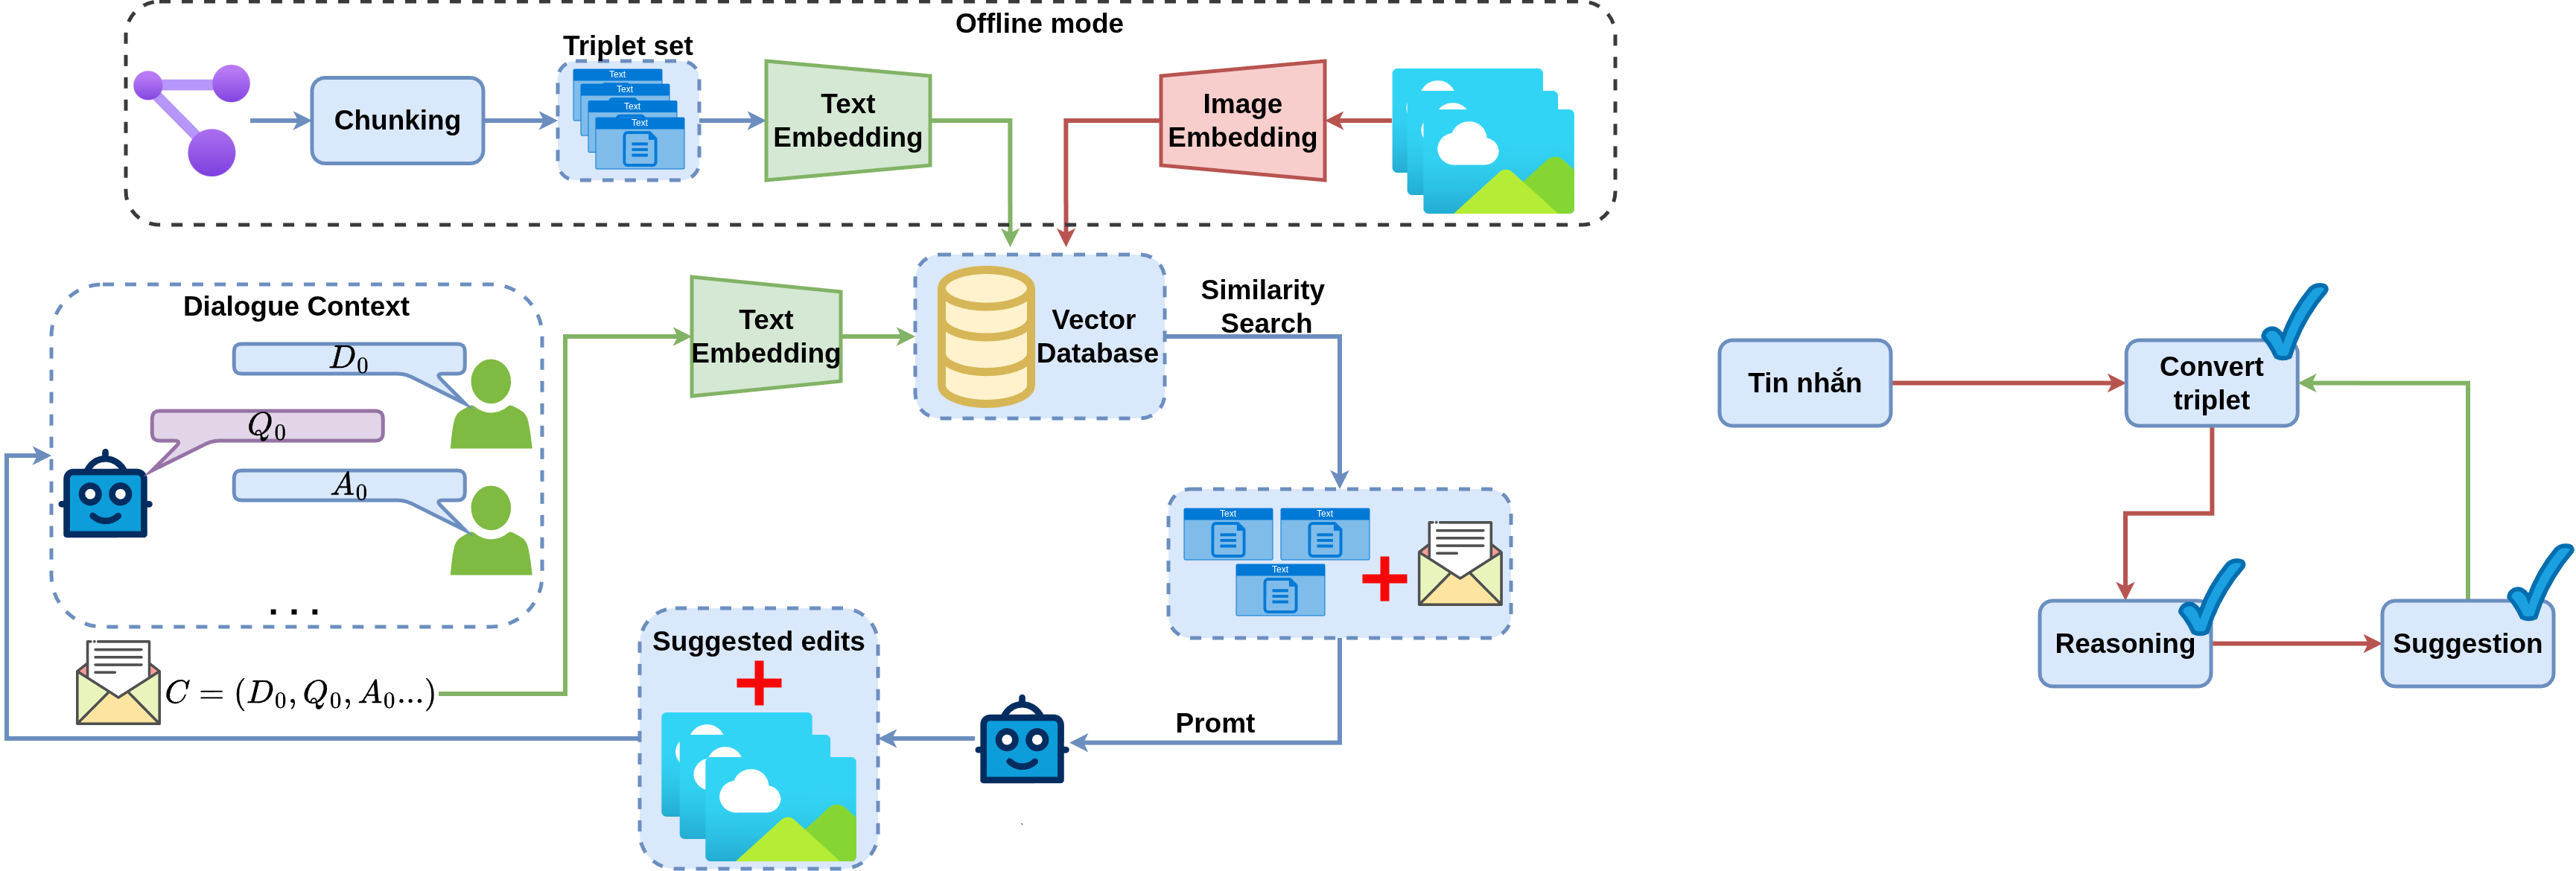
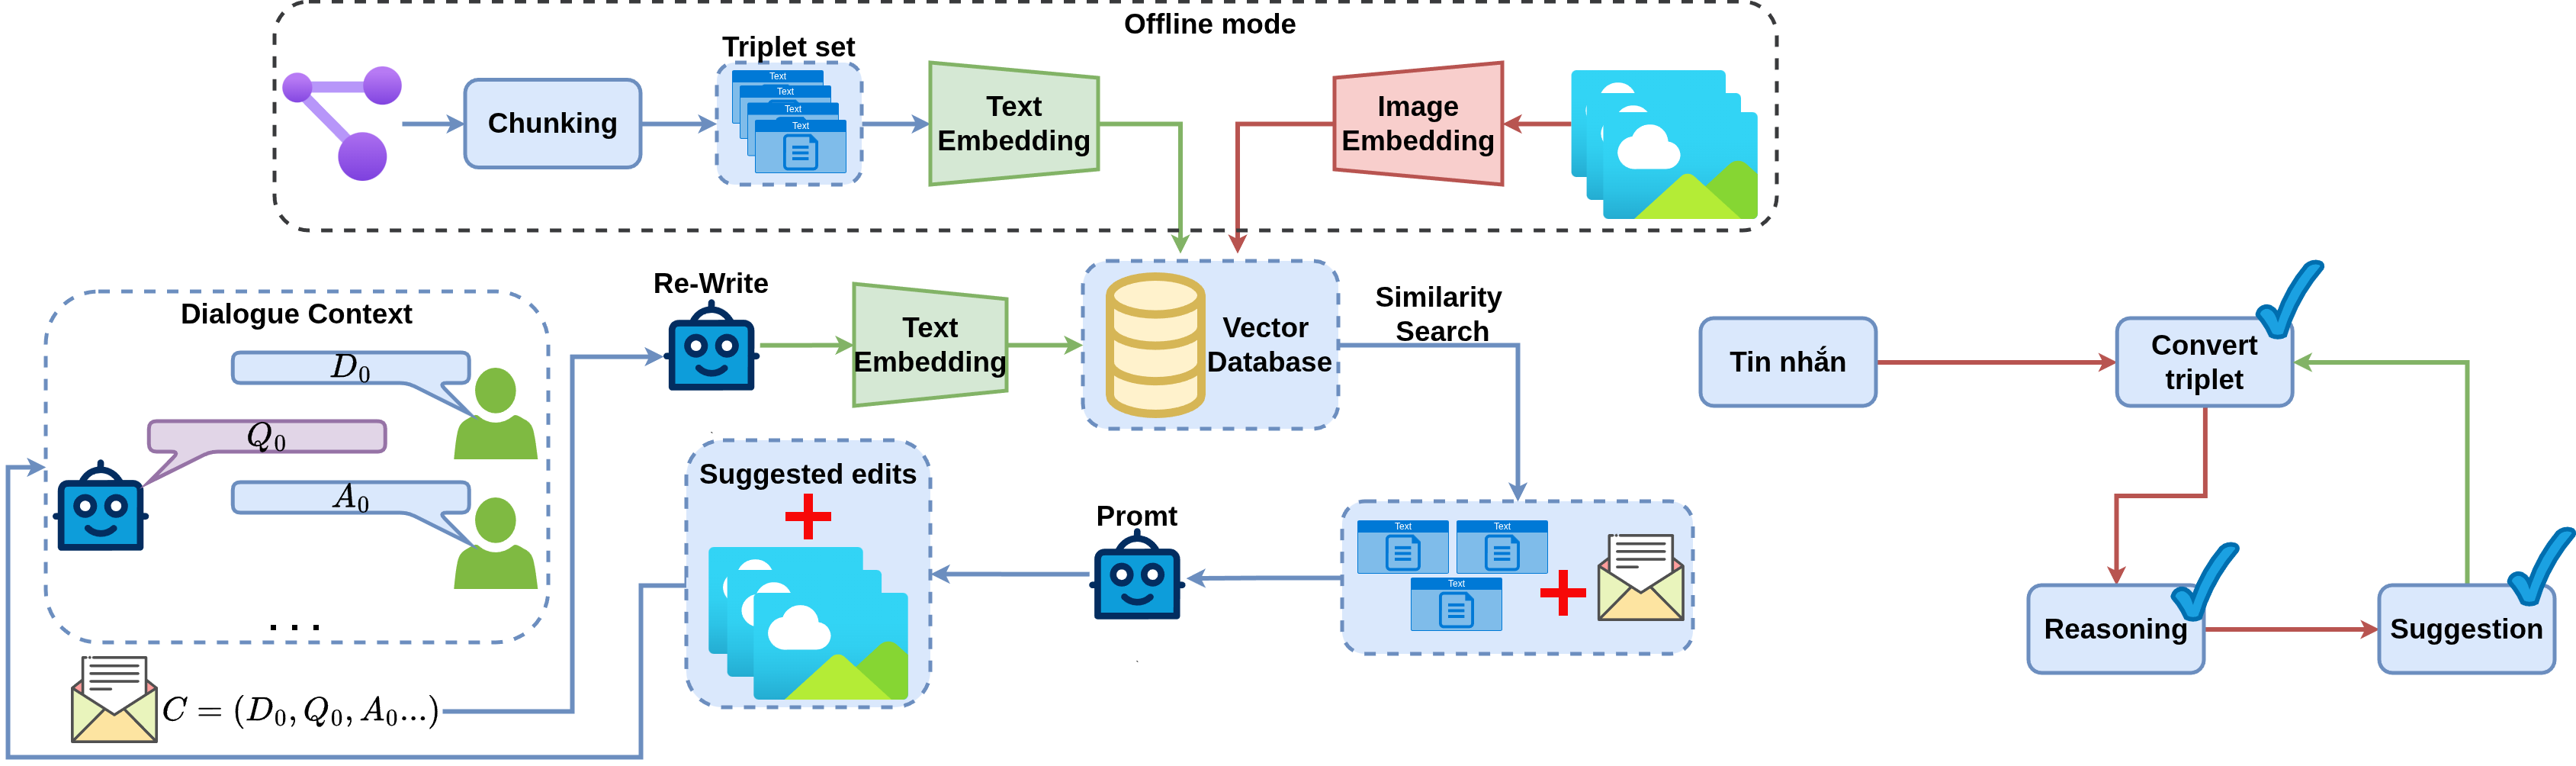
commit changed

diff --git a/Database/get_base_scripts.py b/Database/get_base_scripts.py
@@ -1,6 +1,9 @@
 import json
+import os
 from pathlib import Path
 from typing import Any, Dict, List, Optional, Union
+from PIL import Image
+import matplotlib.pyplot as plt
 
 
 class VisDialAnnotation:
@@ -142,9 +145,9 @@ class VisDialAnnotation:
             result["rounds"].append(turn_result)
 
         if return_as_string:
-            return self._format_script(result, include_answer_options=include_answer_options)
+            return self._format_script(result, include_answer_options=include_answer_options), item.get("image_id")
 
-        return result
+        return result, item.get("image_id")
 
     def _format_script(self, script_data: Dict[str, Any], include_answer_options: bool = False) -> str:
         """
@@ -192,19 +195,28 @@ class VisDialAnnotation:
         
 if __name__ == "__main__":
     visdial = VisDialAnnotation("/home/map4/ThisPC/RAGInteractIR/datasets/VisDial/visdial_1.0_train.json")
-
+    
+    image_root = "/home/map4/ThisPC/RAGInteractIR/datasets/MSCOCO"
+    with open("/home/map4/ThisPC/RAGInteractIR/datasets/VisDial/coco2014_id_to_relpath.json", "r") as f:
+        coco_path = json.load(f)
+    
     print(visdial.get_meta())
-    print(len(visdial))
     
     # item = visdial.get_dialog_item(10)
     # print(item)
     
     
-    script_text = visdial.get_script(
-        index=789,
+    script_text, image_id = visdial.get_script(
+        index=235,
         include_answer_options=False,
         return_as_string=True
     )
-
+    
+    
+    print(f"image path: {coco_path[str(image_id)]}")
     print(script_text)
+    
+    image = Image.open(os.path.join(image_root, coco_path[str(image_id)]))
+    plt.imshow(image)
+    plt.show()
     